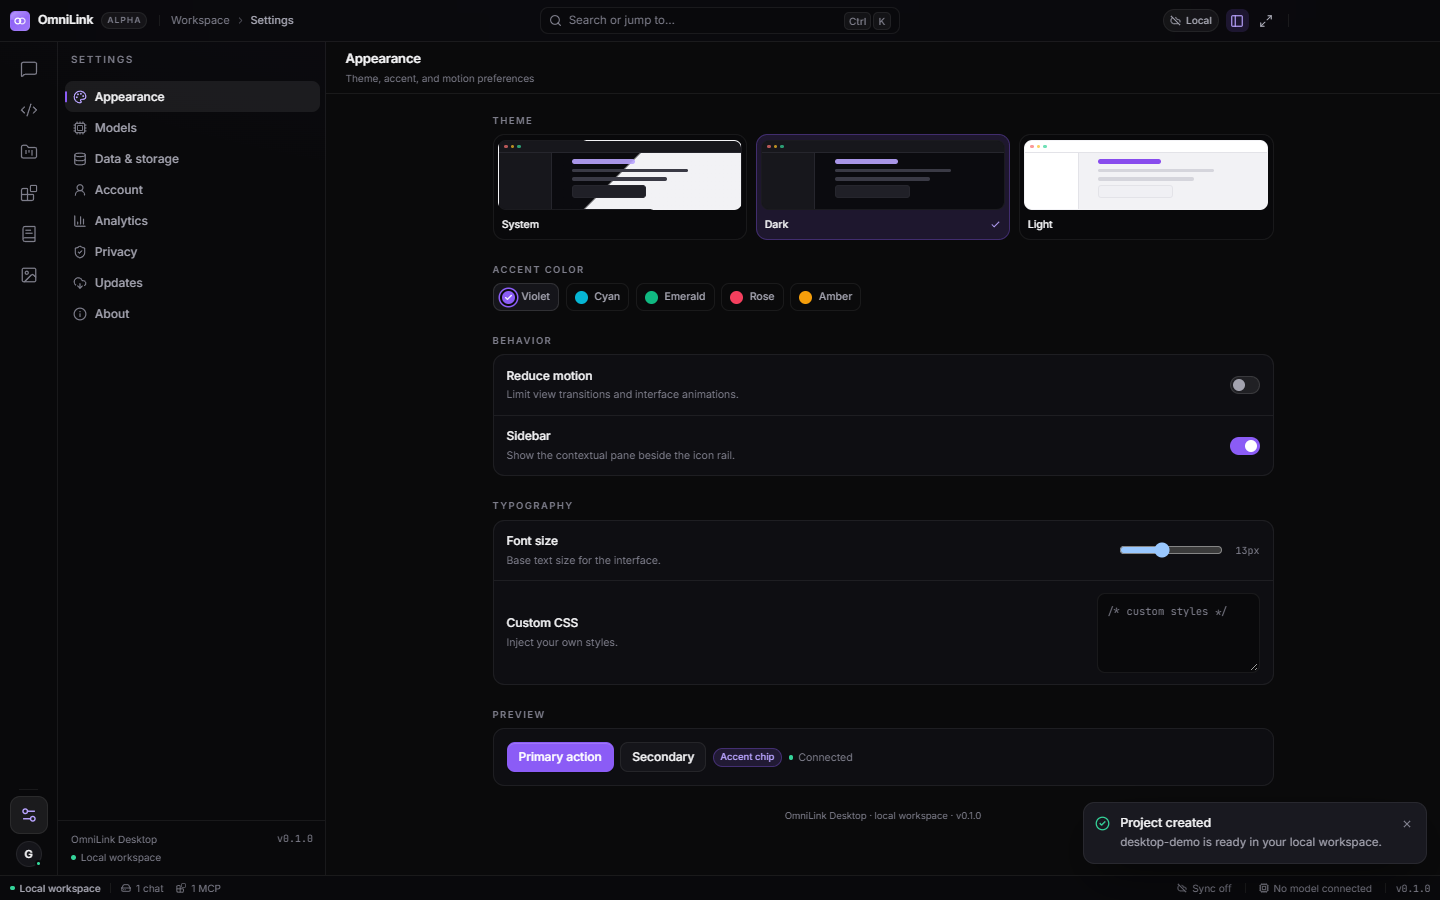
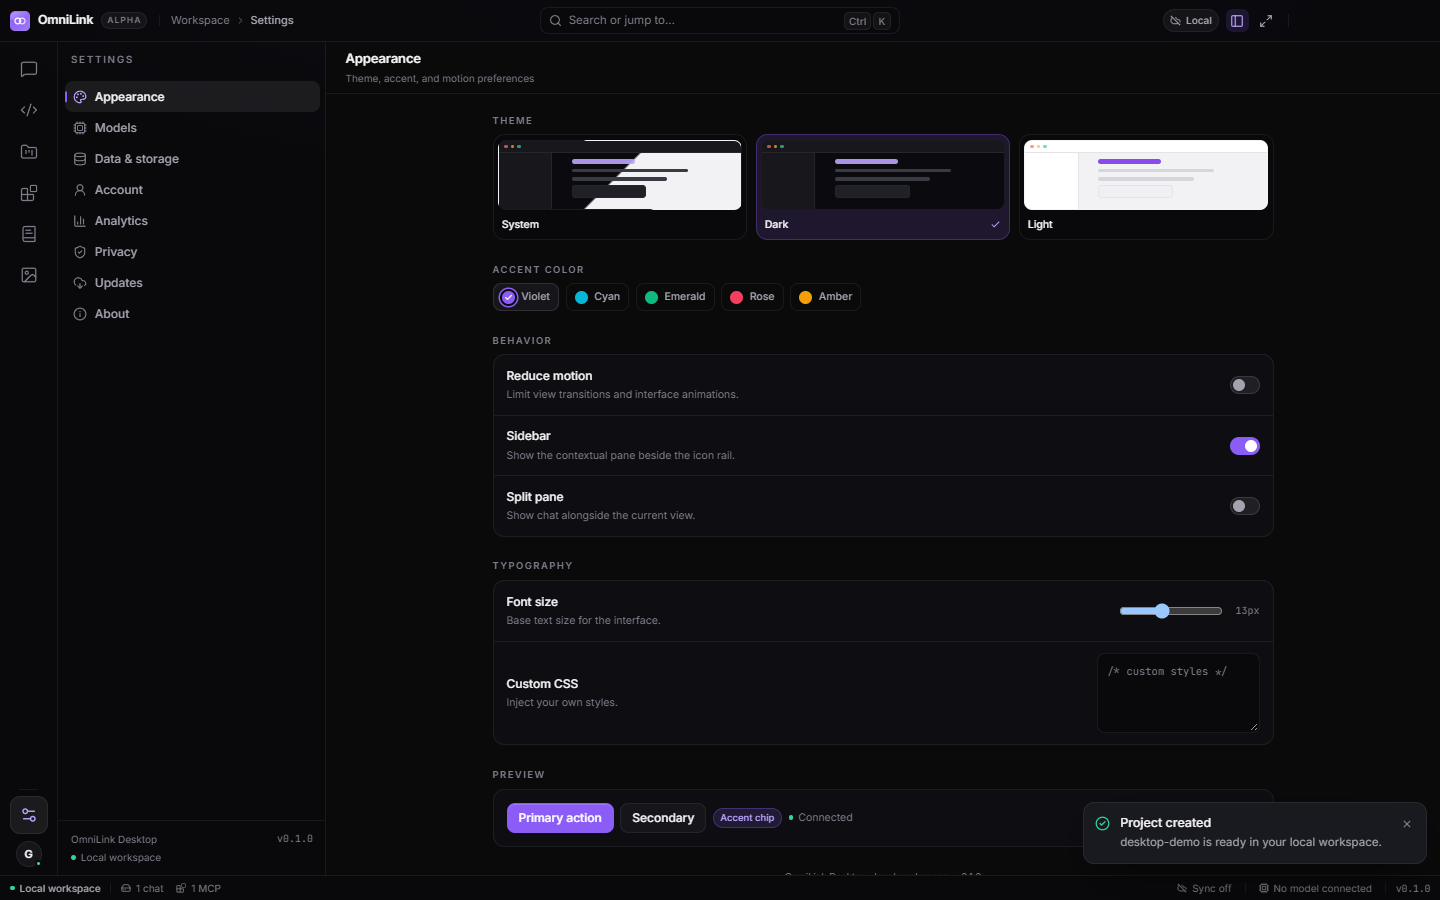
feat(desktop): UX & polish (minimap, breadcrumbs, focus mode, split pane, font size, custom CSS)

diff --git a/omnilink-desktop/src/store/app.ts b/omnilink-desktop/src/store/app.ts
@@ -10,6 +10,7 @@ import {
 import type {
   Accent,
   Asset,
+  ChatTemplate,
   CodingProject,
   Conversation,
   McpServer,
@@ -91,6 +92,10 @@ interface AppState {
   usageLog: UsageEntry[];
   costThreshold: number;
   crashReportsEnabled: boolean;
+  chatTemplates: ChatTemplate[];
+  splitPane: boolean;
+  autoComplete: boolean;
+  autoCompleteModel: string;
   localOnlyMode: boolean;
   encryptedWorkspace: boolean;
   projectVersions: ProjectVersion[];
@@ -170,6 +175,12 @@ interface AppState {
   clearUsage: () => void;
   setCostThreshold: (v: number) => void;
   setCrashReportsEnabled: (v: boolean) => void;
+  addChatTemplate: (t: { name: string; systemPrompt: string }) => string;
+  deleteChatTemplate: (id: string) => void;
+  setSplitPane: (v: boolean) => void;
+  setAutoComplete: (v: boolean) => void;
+  setAutoCompleteModel: (m: string) => void;
+  forkConversation: (conversationId: string, messageId: string) => string;
   addAudit: (action: string, detail: string) => void;
   setLocalOnlyMode: (v: boolean) => void;
   setEncryptedWorkspace: (v: boolean) => void;
@@ -241,6 +252,10 @@ export const useApp = create<AppState>()(
       usageLog: [],
       costThreshold: 10,
       crashReportsEnabled: false,
+      chatTemplates: [],
+      splitPane: false,
+      autoComplete: false,
+      autoCompleteModel: "",
       projectVersions: [],
       serverUrl: "http://127.0.0.1:8080",
       syncEnabled: false,
@@ -557,6 +572,43 @@ export const useApp = create<AppState>()(
       setCostThreshold: (costThreshold) => set({ costThreshold }),
       setCrashReportsEnabled: (crashReportsEnabled) => set({ crashReportsEnabled }),
 
+      addChatTemplate: (t) => {
+        const entry: ChatTemplate = {
+          id: uid("tpl-"),
+          name: t.name,
+          systemPrompt: t.systemPrompt,
+          createdAt: Date.now(),
+        };
+        set((state) => ({ chatTemplates: [...state.chatTemplates, entry] }));
+        return entry.id;
+      },
+      deleteChatTemplate: (id) =>
+        set((state) => ({
+          chatTemplates: state.chatTemplates.filter((t) => t.id !== id),
+        })),
+      setSplitPane: (splitPane) => set({ splitPane }),
+      setAutoComplete: (autoComplete) => set({ autoComplete }),
+      setAutoCompleteModel: (autoCompleteModel) => set({ autoCompleteModel }),
+      forkConversation: (conversationId, messageId) => {
+        const conv = get().conversations.find((c) => c.id === conversationId);
+        if (!conv) return "";
+        const idx = conv.messages.findIndex((m) => m.id === messageId);
+        if (idx === -1) return "";
+        const newConv: Conversation = {
+          id: uid("chat-"),
+          title: `${conv.title} (fork)`,
+          messages: conv.messages.slice(0, idx + 1).map((m) => ({ ...m })),
+          createdAt: Date.now(),
+          updatedAt: Date.now(),
+        };
+        set((state) => ({
+          conversations: [newConv, ...state.conversations],
+          activeConversationId: newConv.id,
+        }));
+        get().trackEvent("chat.forked");
+        return newConv.id;
+      },
+
       addAudit: (action, detail) =>
         set((state) => ({
           auditLog: [
@@ -722,6 +774,10 @@ export const useApp = create<AppState>()(
       usageLog: [],
       costThreshold: 10,
       crashReportsEnabled: false,
+      chatTemplates: [],
+      splitPane: false,
+      autoComplete: false,
+      autoCompleteModel: "",
       projectVersions: [],
       serverUrl: "http://127.0.0.1:8080",
       syncEnabled: false,        }),
@@ -765,6 +821,10 @@ export const useApp = create<AppState>()(
         usageLog: state.usageLog,
         costThreshold: state.costThreshold,
         crashReportsEnabled: state.crashReportsEnabled,
+        chatTemplates: state.chatTemplates,
+        splitPane: state.splitPane,
+        autoComplete: state.autoComplete,
+        autoCompleteModel: state.autoCompleteModel,
         projectVersions: state.projectVersions,
         serverUrl: state.serverUrl,
         syncEnabled: state.syncEnabled,

diff --git a/omnilink-desktop/src/App.tsx b/omnilink-desktop/src/App.tsx
@@ -38,6 +38,7 @@ export default function App() {
   const customCss = useApp((state) => state.customCss);
   const contextCollapsed = useApp((state) => state.contextCollapsed);
   const focusMode = useApp((state) => state.focusMode);
+  const splitPane = useApp((state) => state.splitPane);
   const crashReportsEnabled = useApp((state) => state.crashReportsEnabled);
   const localOnlyMode = useApp((state) => state.localOnlyMode);
 
@@ -221,24 +222,52 @@ export default function App() {
           )}
 
           <main className="app-content">
-            <AnimatePresence mode="wait" initial={false}>
-              <motion.div
-                key={section}
-                initial={{ opacity: 0, y: 5 }}
-                animate={{ opacity: 1, y: 0 }}
-                exit={{ opacity: 0, y: -3 }}
-                transition={{ duration: 0.16, ease: [0.22, 1, 0.36, 1] }}
-                className="h-full min-h-0"
-              >
-                {section === "chat" && <ChatView />}
-                {section === "coding" && <CodingView />}
-                {section === "workspaces" && <WorkspacesView />}
-                {section === "mcp" && <McpView />}
-                {section === "prompts" && <PromptsView />}
-                {section === "assets" && <AssetsView />}
-                {section === "settings" && <SettingsView />}
-              </motion.div>
-            </AnimatePresence>
+            {splitPane ? (
+              <div className="flex h-full min-h-0">
+                <div className="min-w-0 flex-1 border-r border-line">
+                  <AnimatePresence mode="wait" initial={false}>
+                    <motion.div
+                      key={section}
+                      initial={{ opacity: 0, y: 5 }}
+                      animate={{ opacity: 1, y: 0 }}
+                      exit={{ opacity: 0, y: -3 }}
+                      transition={{ duration: 0.16, ease: [0.22, 1, 0.36, 1] }}
+                      className="h-full min-h-0"
+                    >
+                      {section === "chat" && <ChatView />}
+                      {section === "coding" && <CodingView />}
+                      {section === "mcp" && <McpView />}
+                      {section === "prompts" && <PromptsView />}
+                      {section === "assets" && <AssetsView />}
+                      {section === "settings" && <SettingsView />}
+                      {section === "workspaces" && <WorkspacesView />}
+                    </motion.div>
+                  </AnimatePresence>
+                </div>
+                <div className="min-w-0 flex-1">
+                  <ChatView />
+                </div>
+              </div>
+            ) : (
+              <AnimatePresence mode="wait" initial={false}>
+                <motion.div
+                  key={section}
+                  initial={{ opacity: 0, y: 5 }}
+                  animate={{ opacity: 1, y: 0 }}
+                  exit={{ opacity: 0, y: -3 }}
+                  transition={{ duration: 0.16, ease: [0.22, 1, 0.36, 1] }}
+                  className="h-full min-h-0"
+                >
+                  {section === "chat" && <ChatView />}
+                  {section === "coding" && <CodingView />}
+                  {section === "mcp" && <McpView />}
+                  {section === "prompts" && <PromptsView />}
+                  {section === "assets" && <AssetsView />}
+                  {section === "settings" && <SettingsView />}
+                  {section === "workspaces" && <WorkspacesView />}
+                </motion.div>
+              </AnimatePresence>
+            )}
           </main>
         </div>
         <StatusBar />

diff --git a/omnilink-desktop/src/views/SettingsView.tsx b/omnilink-desktop/src/views/SettingsView.tsx
@@ -220,6 +220,8 @@ function AppearanceSettings() {
   const setAccent = useApp((state) => state.setAccent);
   const reduceMotion = useApp((state) => state.reduceMotion);
   const setReduceMotion = useApp((state) => state.setReduceMotion);
+  const splitPane = useApp((state) => state.splitPane);
+  const setSplitPane = useApp((state) => state.setSplitPane);
   const fontSize = useApp((state) => state.fontSize);
   const setFontSize = useApp((state) => state.setFontSize);
   const customCss = useApp((state) => state.customCss);
@@ -321,6 +323,16 @@ function AppearanceSettings() {
               checked={!contextCollapsed}
               onChange={toggleContext}
               label="Show sidebar"
+            />
+          </Row>
+          <Row
+            title="Split pane"
+            description="Show chat alongside the current view."
+          >
+            <Switch
+              checked={splitPane}
+              onChange={setSplitPane}
+              label="Split pane"
             />
           </Row>
         </Group>

diff --git a/omnilink-desktop/src/types.ts b/omnilink-desktop/src/types.ts
@@ -22,6 +22,7 @@ export interface Message {
   content: string;
   createdAt: number;
   pinned?: boolean;
+  attachments?: { name: string; type: string; data: string }[];
 }
 
 export interface Conversation {
@@ -119,6 +120,13 @@ export interface UsageEntry {
   model: string;
   tokens: number;
   timestamp: number;
+}
+
+export interface ChatTemplate {
+  id: string;
+  name: string;
+  systemPrompt: string;
+  createdAt: number;
 }
 
 export type ModalState =
